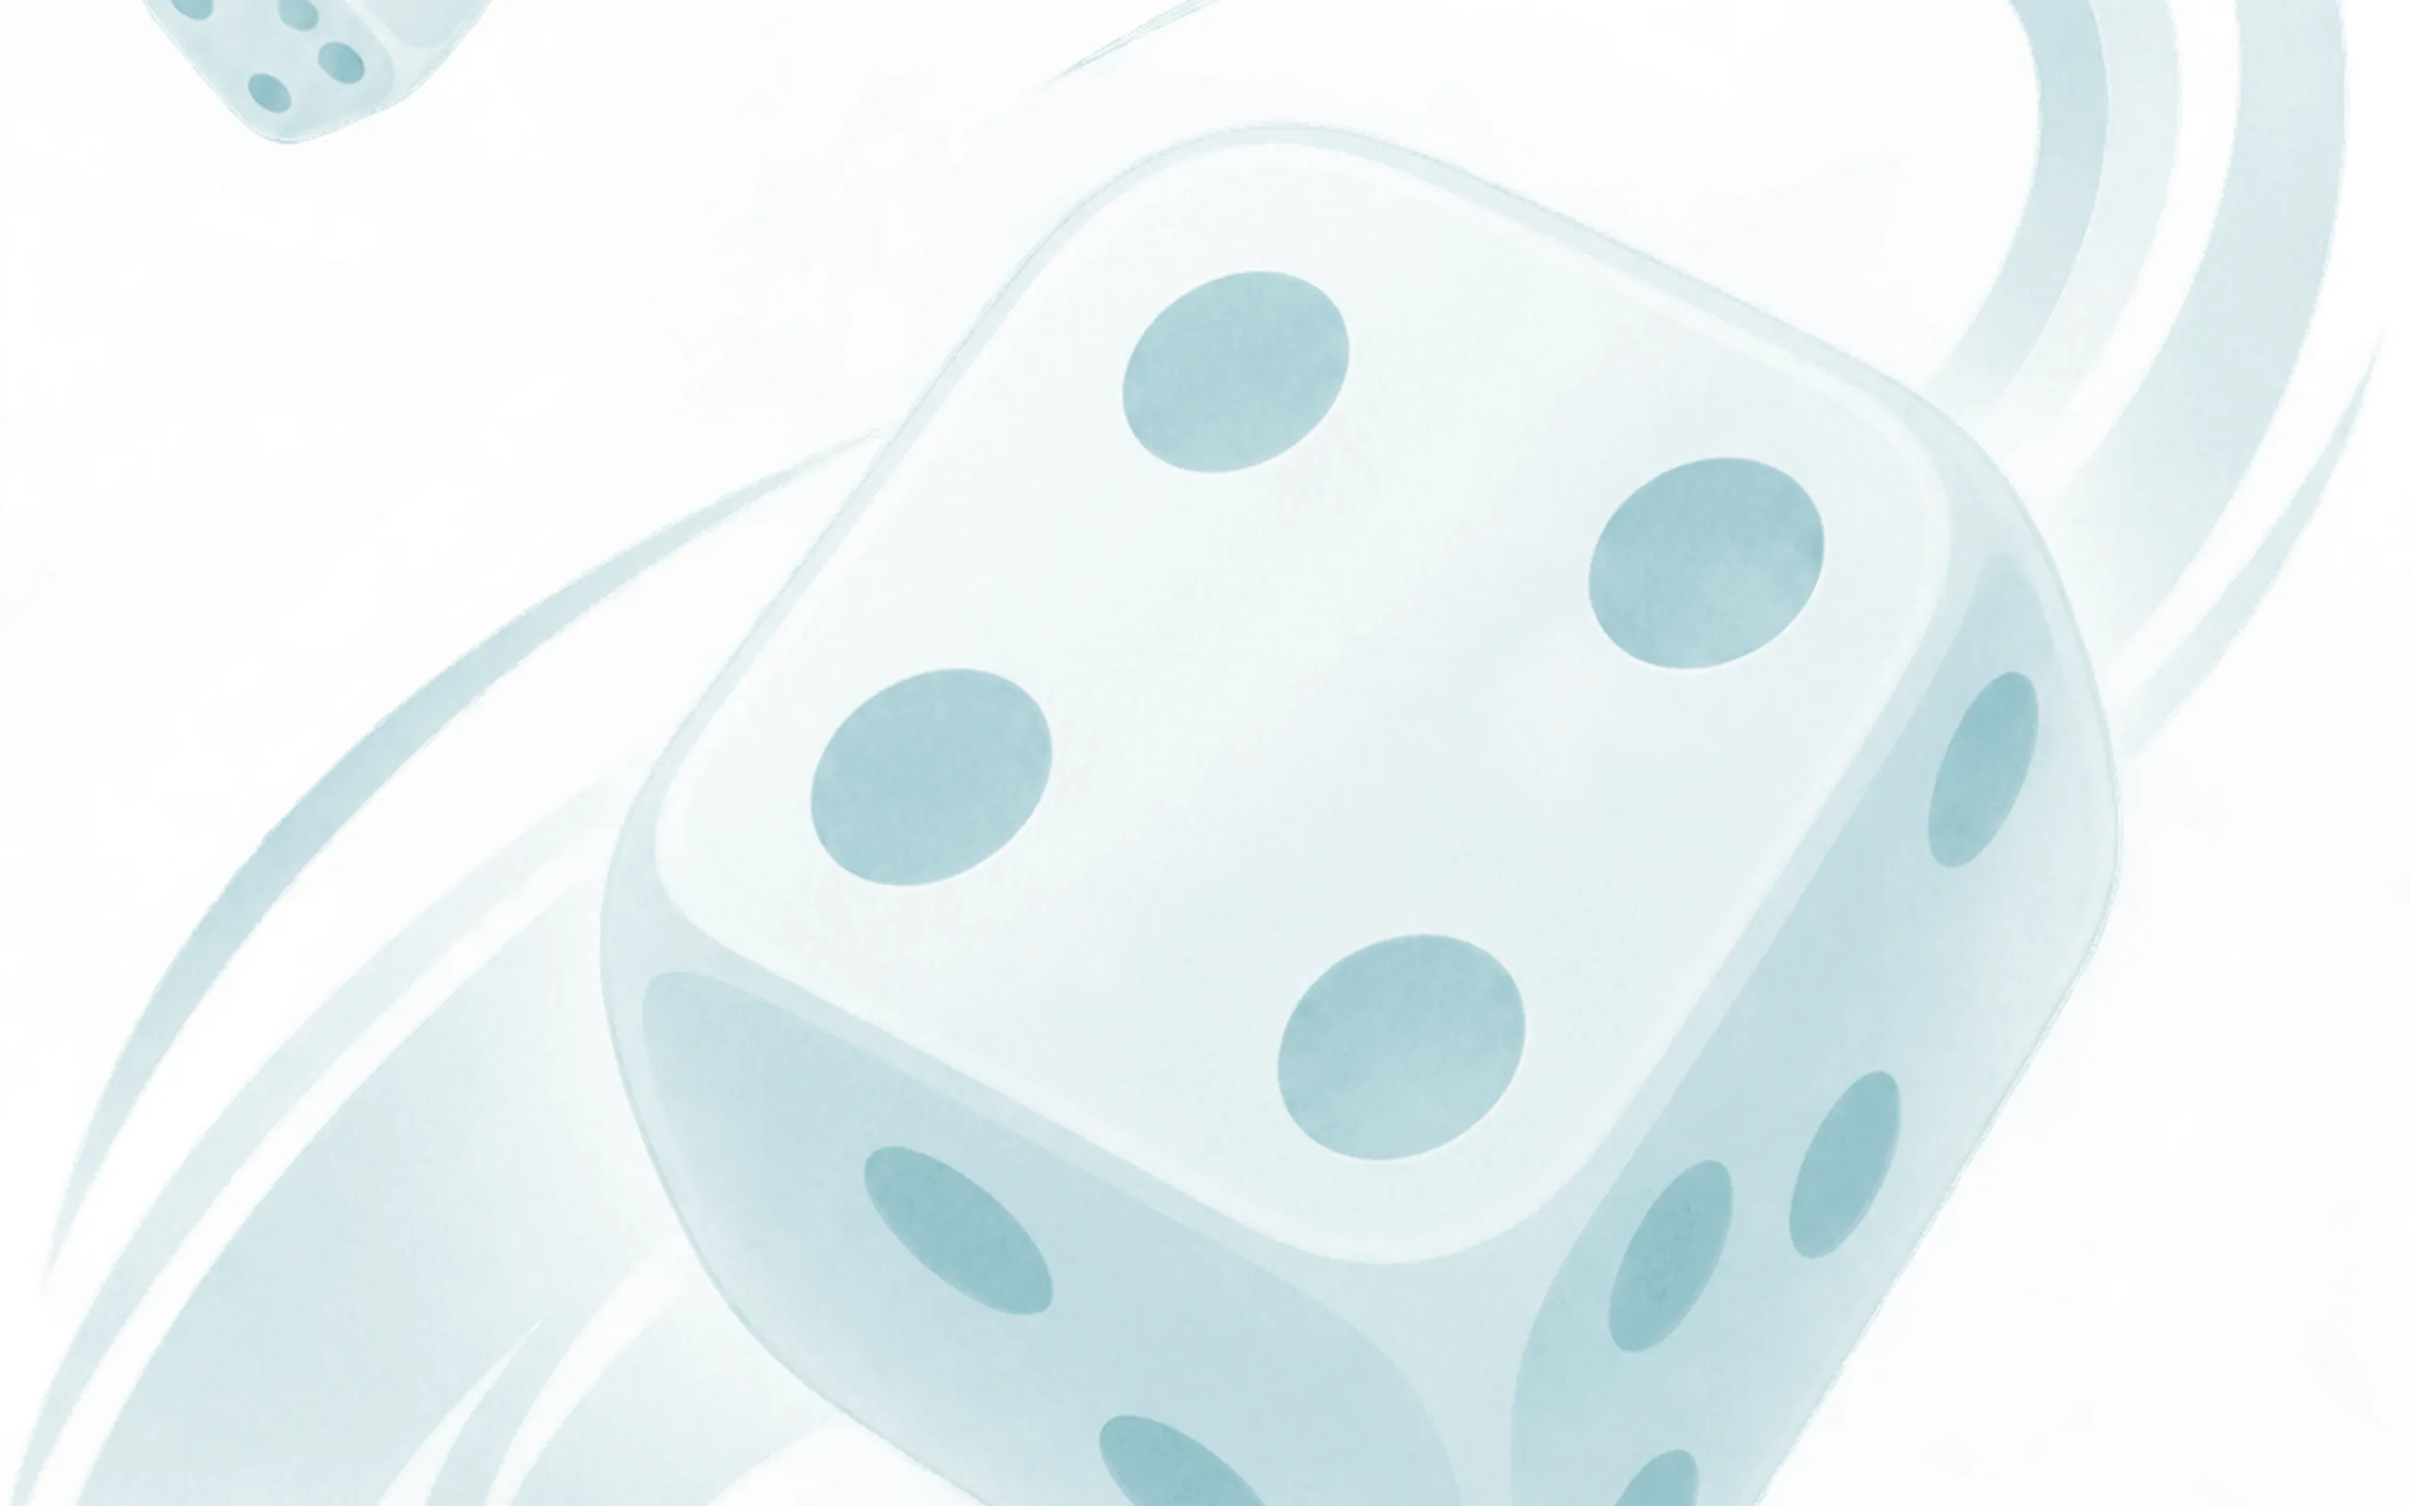
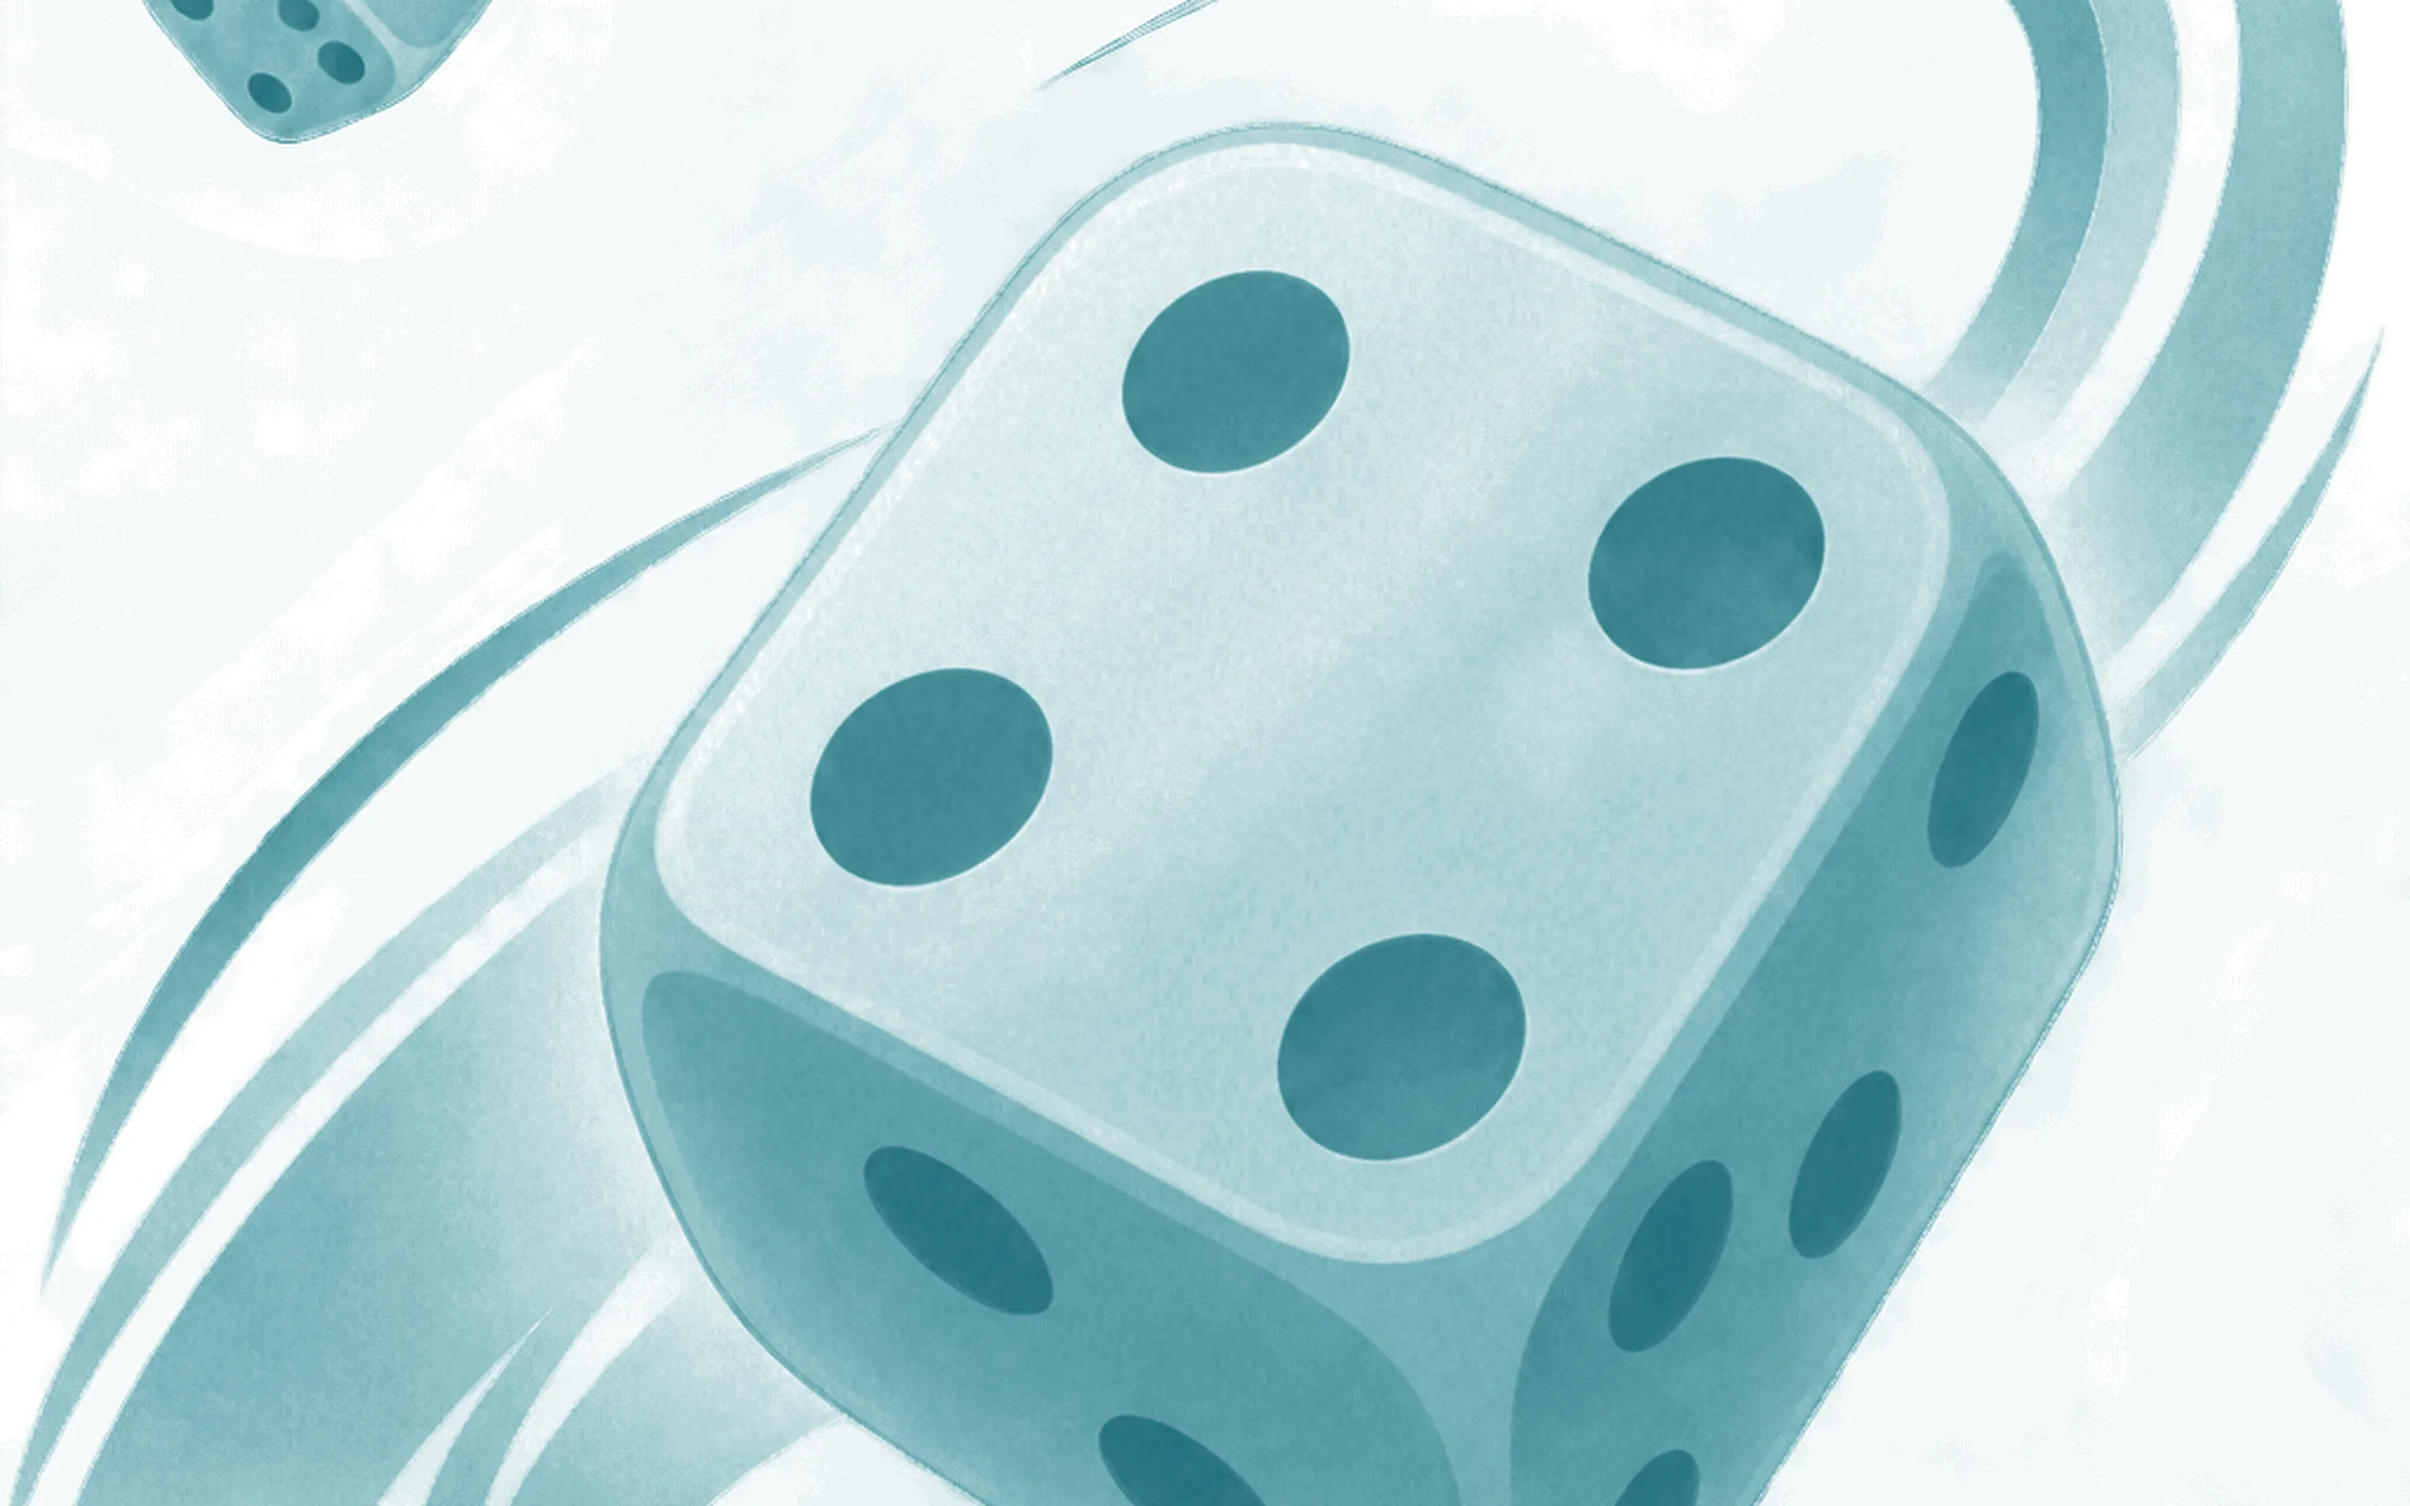
Filigrane bien plus visible
- image recoloree avec une encre teal franche (au lieu du bleu quasi blanc)
- body::before opacity 0.75, voile de la carte abaisse a 0.50, cases vides
  quasi transparentes -> les des se voient dans les marges ET a travers la
  feuille, sans gener la lecture (cases validees toujours opaques)
- sw.js : yams-v10 -> yams-v11

diff --git a/style.css b/style.css
@@ -2267,13 +2267,13 @@ body::before {
   inset: 0;
   z-index: -1;
   background: url("filigrane-dice.webp") center center / cover no-repeat;
-  opacity: 1;
+  opacity: 0.75;
   pointer-events: none;
 }
 
 /* La carte laisse transparaître le filigrane du body::before */
 .container {
-  background: rgba(255, 255, 253, 0.70);
+  background: rgba(255, 255, 253, 0.50);
 }
 
 /* Surfaces de la feuille : transparentes ou très légères pour voir le fond */
@@ -2282,22 +2282,22 @@ body::before {
 }
 
 .clickable {
-  background: rgba(255, 255, 253, 0.30);
+  background: rgba(255, 255, 253, 0.12);
 }
 
 .score-table thead th,
 .score-table th:first-child,
 .score-table td:first-child {
-  background: rgba(255, 255, 253, 0.74);
+  background: rgba(255, 255, 253, 0.68);
 }
 
 .grid-wrapper {
-  background: rgba(255, 255, 253, 0.16);
+  background: rgba(255, 255, 253, 0.04);
 }
 
 .quick-config,
 .player-progress {
-  background: rgba(255, 255, 253, 0.70);
+  background: rgba(255, 255, 253, 0.66);
 }
 
 @media (prefers-color-scheme: dark) {

diff --git a/sw.js b/sw.js
@@ -1,4 +1,4 @@
-const CACHE_NAME = 'yams-v10';
+const CACHE_NAME = 'yams-v11';
 const APP_SHELL = [
   './',
   './index.html',
